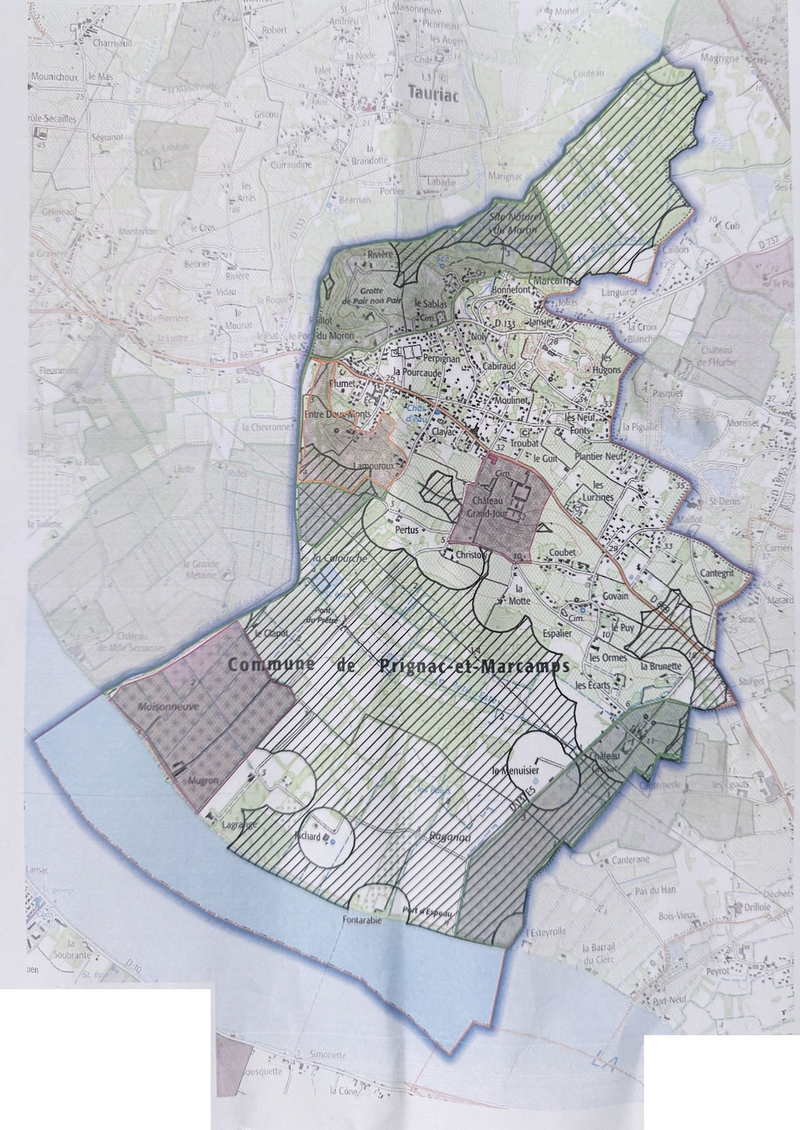
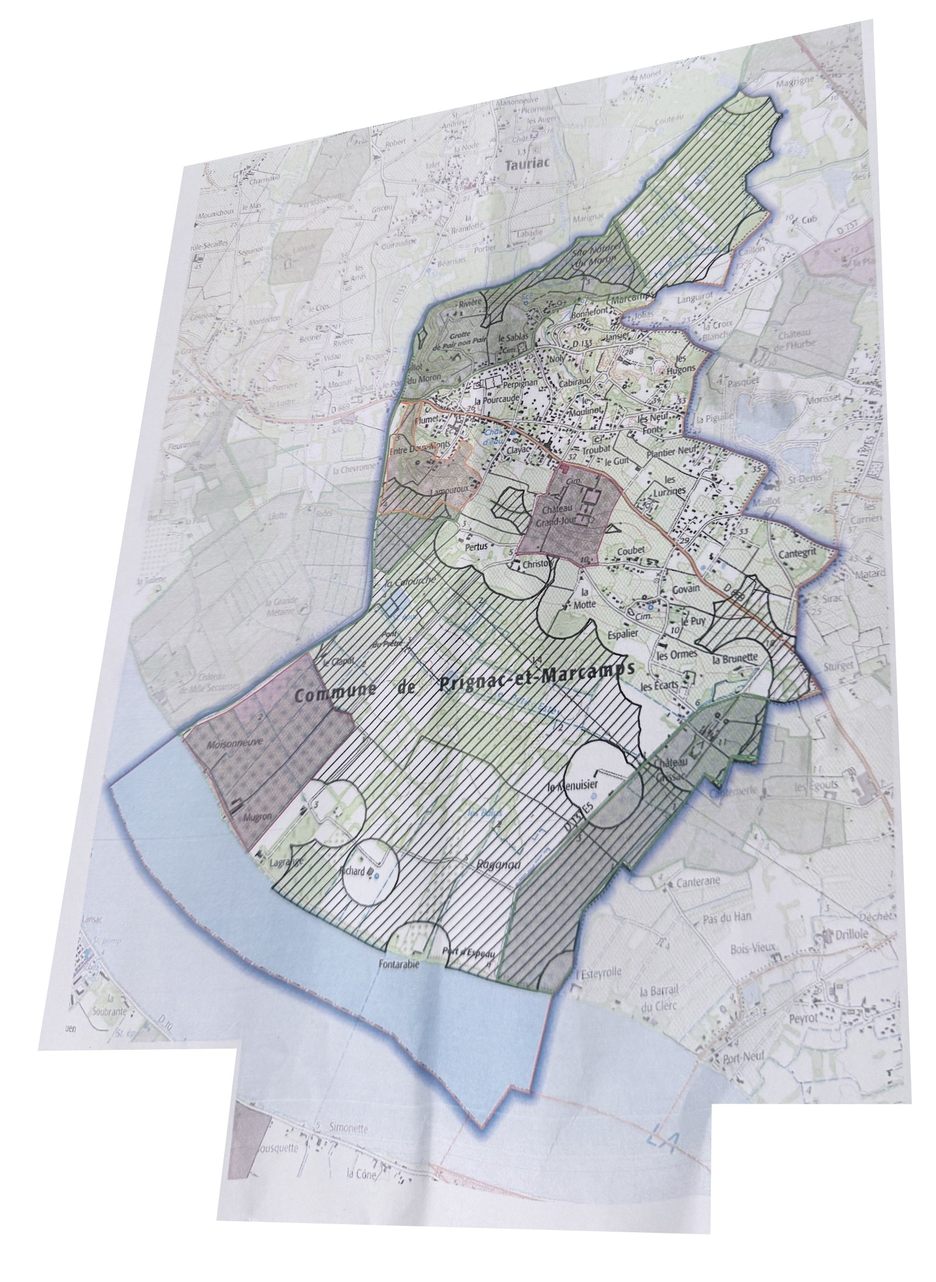
Add files via upload

diff --git a/index.html b/index.html
@@ -7,93 +7,6 @@
 <link rel="stylesheet" href="https://unpkg.com/leaflet@1.9.4/dist/leaflet.css"/>
 <script src="https://unpkg.com/leaflet@1.9.4/dist/leaflet.js"></script>
 <script src="https://unpkg.com/@supabase/supabase-js@2"></script>
-<script>
-/* Plugin Leaflet.ImageOverlay.Rotated (MazeMap, licence Beerware) intégré directement
-   dans le fichier pour ne pas dépendre d'un CDN externe supplémentaire. */
-L.ImageOverlay.Rotated = L.ImageOverlay.extend({
-	initialize: function (image, topleft, topright, bottomleft, options) {
-		if (typeof(image) === 'string') { this._url = image; } else { this._rawImage = image; }
-		this._topLeft    = L.latLng(topleft);
-		this._topRight   = L.latLng(topright);
-		this._bottomLeft = L.latLng(bottomleft);
-		L.setOptions(this, options);
-	},
-	onAdd: function (map) {
-		if (!this._image) {
-			this._initImage();
-			if (this.options.opacity < 1) { this._updateOpacity(); }
-		}
-		if (this.options.interactive) {
-			L.DomUtil.addClass(this._rawImage, 'leaflet-interactive');
-			this.addInteractiveTarget(this._rawImage);
-		}
-		map.on('zoomend resetview', this._reset, this);
-		this.getPane().appendChild(this._image);
-		this._reset();
-	},
-	onRemove: function(map) {
-		map.off('zoomend resetview', this._reset, this);
-		L.ImageOverlay.prototype.onRemove.call(this, map);
-	},
-	_initImage: function () {
-		var img = this._rawImage;
-		if (this._url) {
-			img = L.DomUtil.create('img');
-			img.style.display = 'none';
-			if (this.options.crossOrigin) { img.crossOrigin = ''; }
-			img.src = this._url;
-			this._rawImage = img;
-		}
-		L.DomUtil.addClass(img, 'leaflet-image-layer');
-		var div = this._image = L.DomUtil.create('div', 'leaflet-image-layer ' + (this._zoomAnimated ? 'leaflet-zoom-animated' : ''));
-		this._updateZIndex();
-		div.appendChild(img);
-		div.onselectstart = L.Util.falseFn;
-		div.onmousemove = L.Util.falseFn;
-		img.onload = function(){ this._reset(); img.style.display = 'block'; this.fire('load'); }.bind(this);
-		img.alt = this.options.alt;
-	},
-	_reset: function () {
-		var div = this._image;
-		if (!this._map) { return; }
-		var pxTopLeft    = this._map.latLngToLayerPoint(this._topLeft);
-		var pxTopRight   = this._map.latLngToLayerPoint(this._topRight);
-		var pxBottomLeft = this._map.latLngToLayerPoint(this._bottomLeft);
-		var pxBottomRight = pxTopRight.subtract(pxTopLeft).add(pxBottomLeft);
-		var pxBounds = L.bounds([pxTopLeft, pxTopRight, pxBottomLeft, pxBottomRight]);
-		var size = pxBounds.getSize();
-		var pxTopLeftInDiv = pxTopLeft.subtract(pxBounds.min);
-		this._bounds = L.latLngBounds( this._map.layerPointToLatLng(pxBounds.min), this._map.layerPointToLatLng(pxBounds.max) );
-		L.DomUtil.setPosition(div, pxBounds.min);
-		div.style.width  = size.x + 'px';
-		div.style.height = size.y + 'px';
-		var imgW = this._rawImage.width;
-		var imgH = this._rawImage.height;
-		if (!imgW || !imgH) { return; }
-		var vectorX = pxTopRight.subtract(pxTopLeft);
-		var vectorY = pxBottomLeft.subtract(pxTopLeft);
-		this._rawImage.style.transformOrigin = '0 0';
-		this._rawImage.style.transform = "matrix(" +
-			(vectorX.x/imgW) + ', ' + (vectorX.y/imgW) + ', ' +
-			(vectorY.x/imgH) + ', ' + (vectorY.y/imgH) + ', ' +
-			pxTopLeftInDiv.x + ', ' + pxTopLeftInDiv.y + ')';
-	},
-	reposition: function(topleft, topright, bottomleft) {
-		this._topLeft    = L.latLng(topleft);
-		this._topRight   = L.latLng(topright);
-		this._bottomLeft = L.latLng(bottomleft);
-		this._reset();
-	},
-	setUrl: function (url) {
-		this._url = url;
-		if (this._rawImage) { this._rawImage.src = url; }
-		return this;
-	}
-});
-L.imageOverlay.rotated = function(imgSrc, topleft, topright, bottomleft, options) {
-	return new L.ImageOverlay.Rotated(imgSrc, topleft, topright, bottomleft, options);
-};
-</script>
 <style>
   :root{
     --vert:#2f6d3a; --vert-d:#234f2b; --vert-l:#e8f2e9;
@@ -594,24 +507,19 @@ function addCommuneMask(geom){
 }
 
 /* ===================== ZONES CHASSE (CPNC / RCFS / RRI / Superficie chassable) =====================
-   Tracé approximatif recopié à la main depuis la carte papier envoyée par l'utilisateur, recalé
-   géographiquement sur le vrai fond de carte, à partir de points de repère communs avec le
-   contour officiel de la commune (geo.api.gouv.fr) : la pointe nord, la pointe ouest, le point sud
-   et le décrochement est. La légende (CPNC/RCFS/RRI) et l'échelle de la photo d'origine ont été
-   effacées de l'image pour ne pas afficher un cartouche au milieu de la carte. */
-var ZONES_IMG_TOPLEFT  = [45.051534, -0.534135];
-var ZONES_IMG_TOPRIGHT = [45.057703, -0.46701];
-var ZONES_IMG_BOTLEFT  = [44.990172, -0.535651];
+   Photo envoyée par l'utilisateur, redressée (correction de perspective par homographie, pas
+   une simple rotation) et recalée sur 6 points de repère communs avec le contour officiel de la
+   commune (geo.api.gouv.fr) : pointe nord, pointe ouest, point sud, décrochement est, bord ouest
+   et poche de St-Denis/Maillot. Une fois redressée, l'image est alignée sur lon/lat, donc un
+   simple rectangle (imageOverlay classique) suffit, plus besoin de plugin de rotation.
+   La légende (CPNC/RCFS/RRI) et l'échelle d'origine ont été effacées de l'image. */
+var ZONES_IMG_BOUNDS = [[44.985, -0.540], [45.058, -0.465]];
 
 var zonesOverlay = null, zonesVisible = false;
 function toggleZonesChasse(){
   var btn = document.getElementById('btn-zonemap');
-  if(!L.imageOverlay || !L.imageOverlay.rotated){
-    toast('Le module carte des zones n\'a pas pu se charger (connexion ?)');
-    return;
-  }
   if(!zonesOverlay){
-    zonesOverlay = L.imageOverlay.rotated('carte-zones.jpg', ZONES_IMG_TOPLEFT, ZONES_IMG_TOPRIGHT, ZONES_IMG_BOTLEFT, { opacity:0.8, interactive:false });
+    zonesOverlay = L.imageOverlay('carte-zones.jpg', ZONES_IMG_BOUNDS, { opacity:0.8, interactive:false });
   }
   if(zonesVisible){
     map.removeLayer(zonesOverlay);
